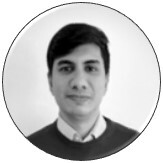
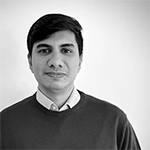
adding a new photos for the team members

diff --git a/src/assets/main.css b/src/assets/main.css
@@ -196,13 +196,18 @@ header li a {
 }
 
 .profile-photo {
+  -o-object-fit: cover;
+     object-fit: cover;
+  -o-object-position: top;
+     object-position: top;
   width: 80px;
   height: 80px;
-  border-radius: 100%;
+  border-radius: 60%;
   position: relative;
   bottom: 30%;
   right: 40%;
   box-shadow: 4px 4px 10px 1px rgba(38, 32, 32, 0.6);
+  border: 2px solid transparent;
 }
 
 .member-container {
@@ -251,6 +256,12 @@ header li a {
   .card:nth-child(2) .member-container {
     height: 100%;
     justify-content: flex-start;
+  }
+  .card:nth-child(2) .profile-photo {
+    -o-object-fit: fill;
+       object-fit: fill;
+    -o-object-position: center;
+       object-position: center;
   }
 }
 .contibutors_container {

diff --git a/src/components/Team.vue b/src/components/Team.vue
@@ -7,7 +7,7 @@
     <div class="card">
       <div class="member-container">
         <div class="member-img">
-          <img src="../assets/img/gijs.png" alt="" class="profile-photo" />
+          <img src="../assets/img/gijs.jpg" alt="" class="profile-photo" />
         </div>
         <div class="member-info">
           <h4>
@@ -61,7 +61,7 @@
     <div class="card">
       <div class="member-container">
         <div class="member-img">
-          <img src="../assets/img/chris.png" alt="" class="profile-photo" />
+          <img src="../assets/img/chris.jpg" alt="" class="profile-photo" />
         </div>
         <div class="member-info">
           <h4>

diff --git a/src/assets/style/_team.scss b/src/assets/style/_team.scss
@@ -25,14 +25,17 @@
     margin: 20px;
 }
 .profile-photo {
+    object-fit: cover;
+    object-position: top;
     width: 80px;
     height: 80px;
-    border-radius: 100%;
+    border-radius: 60%;
     position: relative;
     bottom: 30%;
     right: 40%;
-    box-shadow: 4px 4px 10px 1px rgba(38, 32, 32, 0.6);
- 
+    box-shadow: 4px 4px 10px 1px #26202099;
+    border: 2px solid transparent;
+   
 }
 .member-container {
     max-width: 350px;
@@ -78,5 +81,8 @@
         height: 100%;
         justify-content: flex-start;
     }
-   
+    .card:nth-child(2) .profile-photo{
+        object-fit: fill;
+        object-position: center;
+    }
 }

diff --git a/src/components/Header.vue b/src/components/Header.vue
@@ -1,7 +1,7 @@
 <template>
   <header>
     <a href="#home" @click="activeTab = 'home'">
-      <img src="../assets/icon/lawnotation_logo.svg" alt="" class="logo"
+      <img src="../assets/icon/logo.svg" alt="" class="logo"
     /></a>
     <ul class="navItems">
       <li :class="{ active: isActive }">
